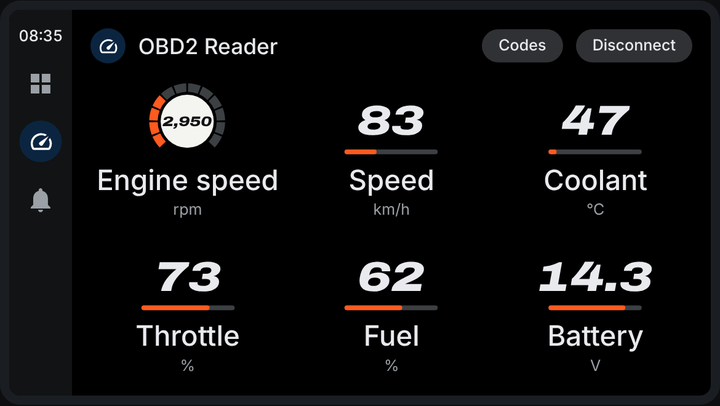
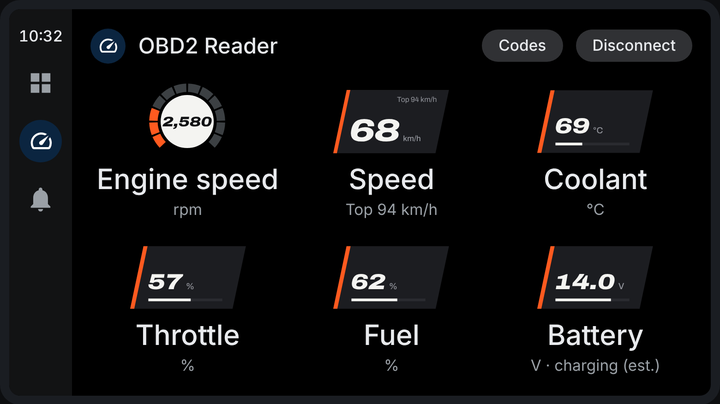
1.24.0: changelog, README, preview
Claude-Session: https://claude.ai/code/session_01McjzTqeoTY42GN73YPdA2H

diff --git a/preview/index.html b/preview/index.html
@@ -704,6 +704,16 @@ h1 { font-size: 30px; margin: 0; letter-spacing: -.01em; }
 .pipw .pip-x { position: absolute; inset: 0; border-radius: 14px; background: rgba(0,0,0,.55); display: flex; align-items: center; justify-content: center; gap: 10px; }
 .pipw .pip-x button { border: 0; border-radius: 999px; padding: 6px 12px; font: inherit; font-size: 12px; background: #F2F4F8; color: #111214; cursor: pointer; }
 .pipw[hidden] { display: none; }
+
+/* Same route as last time (trip summary) */
+.same-route { background: var(--panel-2); border-radius: var(--r); padding: 4px 14px; margin-bottom: 4px; }
+.same-route div { display: flex; align-items: center; gap: 10px; padding: 7px 0; font-size: 13px; }
+.same-route div + div { border-top: 1px solid var(--line); }
+.same-route span { flex: 1; color: var(--fg-2); }
+.same-route b { font-size: 15px; font-weight: 600; font-variant-numeric: tabular-nums; }
+.same-route em { width: 118px; text-align: right; font-style: normal; color: var(--fg-2); font-variant-numeric: tabular-nums; }
+.same-route em.up { color: var(--green); } .same-route em.down { color: var(--red); }
+.car-item svg.tile { overflow: visible; }
 </style>
 
 <p class="note"><b>Live preview of the Android app, its Android Auto screen, its home-screen widget and its picture-in-picture window.</b> Every button works. Connections run against the same simulated car as the app's demo mode, because a browser can't reach a real adapter.</p>
@@ -1913,7 +1923,7 @@ function renderRec() {
   const s = Math.floor((Date.now() - rec.started) / 1000);
   $("recordStatus").textContent = `Recording ${Math.floor(s / 60)}:${String(s % 60).padStart(2, "0")}, ${rec.rows.toLocaleString("en-AU")} rows. Saved as ${rec.name}`;
 }
-function stopRec() { if (!rec) return; if (rec.rows) savedDrives.unshift({ name: rec.name, rows: rec.rows, secs: Math.round((Date.now() - rec.started) / 1000), samples: rec.samples }); rec = null; renderRec(); }
+function stopRec() { if (!rec) return; if (rec.rows) savedDrives.unshift({ name: rec.name, rows: rec.rows, secs: Math.round((Date.now() - rec.started) / 1000), samples: rec.samples, start: rec.started }); rec = null; renderRec(); }
 $("recordBtn").onclick = () => {
   if (rec) { stopRec(); return toast("Drive saved. Open Saved drives to share it."); }
   rec = { name: `OBD2Reader_${stamp()}.csv`, started: Date.now(), rows: 0, samples: [] }; renderRec();
@@ -2452,6 +2462,7 @@ function showTripSummary(t, justEnded) {
     <div class="trip-tiles">${tiles.map(([l, v]) => `<div><span>${l}</span><b class="xb">${v}</b></div>`).join("")}</div>
     <div class="trip-h">Driving score</div><div class="trip-scores">${sc3}</div>
     ${Object.values(t.scores).every(v => v == null) ? `<p class="trip-note">Drive for at least half a minute to get a score.</p>` : ""}
+    ${sameRouteHtml(t)}
     <button class="primary trip-done" id="tripDone">Done</button><button class="trip-share" id="tripShare">Share as a picture</button>`, { sheet: true });
   $("tripDone").onclick = closeOverlay;
   $("tripShare").onclick = () => showDriveCard(t);
@@ -3065,7 +3076,7 @@ setInterval(() => { $("noChargeBtn").hidden = $("ignBtn").hidden; if ($("ignBtn"
 
 /* ===== App updates (mirrors MainActivity.checkForUpdate and showChangesSince). The browser preview
    can't install an APK, so it is always on the latest release. ===== */
-const CHANGES = {"version": "1.23.0", "date": "1 November 2026", "text": "• Picture-in-picture. While you're connected (to your car or the demo), leaving the app now keeps your readings in a small floating window over your other apps, like a video: your widget readings, the first one big, in your style's colours, lighting up near your redline or top speed just like the widget. Drag it anywhere, pinch to resize it, tap it for a Disconnect button or to go back to the full app. Putting the window away keeps you connected (the notification still has Disconnect). Turn it off with the Picture-in-picture switch under Reconnect automatically."};
+const CHANGES = {"version": "1.24.0", "date": "2 November 2026", "text": "• Same route as last time. When you record a drive with its route and you've recorded the same journey before (same start, same finish, same roads, the same way round), the drive's summary compares the two: time, average speed, idling and top speed, each marked better or worse, plus your drive score when both recordings covered the whole drive. The two routes are read from their own recordings, the only place your location is ever kept, and nothing new is saved.\n• Android Auto in your style's layout. The car screen's tiles are now drawn with the phone's own dashboard pieces in the style you've chosen: the race-number roundel and angled decals on the liveries, shift lights and data-logger rows with live traces on Race telemetry, the glowing speed ring and glass rows on Digital cockpit, and the neon heads-up display and chips on Cyberpunk. Trouble codes show on your style's plates too. Android Auto still sets the background, the grid and the names under each tile. Pit lane is drawn in darker colours while the car's screen is in night mode."};
 (() => { const row = document.getElementById("updatesRow"), btn = document.getElementById("updatesCheck"); if (!row) return;
   btn.onclick = e => { e.stopPropagation(); toast("Checking for updates…"); setTimeout(() => toast(`You're on the latest version (${CHANGES.version}).`), 1200); };
   row.onclick = () => {
@@ -3367,6 +3378,149 @@ $("batteryWatch").onchange = e => { $("batteryNight").hidden = !e.target.checked
     draw();
   }, 400);
 })();
+
+/* ===== 1.24.0: Android Auto tiles in the style's own layout (mirrors car/CarTiles.kt) =====
+   Each tile is a picture of the phone's dashboard piece: roundel and angled decals on the liveries,
+   shift lights and data-logger rows with traces on Race telemetry, the speed ring and glass rows on
+   Digital cockpit, the heads-up display and chips on Cyberpunk. Pit lane goes dark (Kerb's colours) in the car. */
+(function () {
+  const probes = {};
+  function vars(id) {
+    if (!probes[id]) { const d = document.createElement("div"); d.dataset.theme = id; d.hidden = true; document.body.appendChild(d); probes[id] = d; }
+    const cs = getComputedStyle(probes[id]), g = n => cs.getPropertyValue(n).trim();
+    return { base: g("--base"), panel: g("--panel"), line: g("--line"), fg: g("--fg"), fg2: g("--fg-2"), s1: g("--s1"), s2: g("--s2"), track: g("--track") || "#2A2B30", red: g("--red") || "#FF3B2F", roundel: g("--roundel"), ink: g("--roundel-ink") };
+  }
+  const hist = {}; let histAt = 0;
+  const DISPLAY = "font-family:Archivo;font-stretch:125%;font-weight:850;font-style:italic;font-variant-numeric:tabular-nums";
+  const esc = s => String(s).replace(/&/g, "&amp;").replace(/</g, "&lt;");
+  function decal(c, value, unit, frac, hot, wide, top) {
+    const W = wide ? 380 : 340, H = wide ? 208 : 184, o = Math.tan(12 * Math.PI / 180) * H;
+    const fill = hot ? c.red : c.fg;
+    return `<svg class="tile" viewBox="0 0 ${W} ${H}" aria-hidden="true"><polygon points="${o},0 ${W},0 ${W - o},${H} 0,${H}" fill="${c.panel}"/>
+      <polygon points="${o},0 ${o + 12},0 12,${H} 0,${H}" fill="${hot ? c.red : c.s1}"/>
+      ${top != null ? `<text x="${W - 40}" y="40" text-anchor="end" font-size="24" fill="${c.fg2}" font-family="Archivo">Top ${top} ${esc(unit)}</text>` : ""}
+      <text x="${o * 0.3 + 40}" y="${wide ? H - 40 : 126}" font-size="${wide ? 104 : 64}" fill="${fill}" style="${DISPLAY}">${esc(value)}<tspan font-size="26" fill="${c.fg2}" style="font-style:normal;font-stretch:100%;font-weight:500" dx="10">${value === "N/A" ? "" : esc(unit)}</tspan></text>
+      ${wide ? "" : `<rect x="${o * 0.6 + 30}" y="${H - 30}" width="${W - o - 60 - o * 0.6}" height="8" fill="${c.track}"/><rect x="${o * 0.6 + 30}" y="${H - 30}" width="${Math.max(0, (W - o - 60 - o * 0.6) * (frac || 0))}" height="8" fill="${fill}"/>`}</svg>`;
+  }
+  function trace(pts, x, y, w, h, min, max, col) {
+    if (!pts || pts.length < 2) return "";
+    const d = pts.map((v, i) => `${(x + w * i / 93).toFixed(1)},${(y + h - h * Math.max(0, Math.min(1, (v - min) / (max - min || 1)))).toFixed(1)}`).join(" ");
+    return `<polyline points="${d}" fill="none" stroke="${col}" stroke-width="3" stroke-linejoin="round"/>`;
+  }
+  const CH = { "0C": "#FF3B30", "0D": "#2FD573", "05": "#FFB000", "11": "#5AC8FA", "2F": "#BF5AF2", VOLT: "#E9EBEE" };
+  function row(c, kind, key, value, unit, min, max, hot) {
+    const W = 380, H = kind === "glass" ? 120 : 150;
+    const bg = kind === "glass" ? `<rect x="1" y="1" width="${W - 2}" height="${H - 2}" rx="30" fill="rgba(255,255,255,.08)" stroke="rgba(255,255,255,.14)"/>`
+      : `<rect width="${W}" height="${H}" rx="4" fill="${c.panel}"/><rect width="6" height="${H}" fill="${CH[key] || c.s1}"/>`;
+    const col = hot ? c.red : c.fg;
+    const font = kind === "glass" ? "font-family:Archivo;font-weight:300;font-variant-numeric:tabular-nums" : "font-family:Archivo;font-stretch:75%;font-weight:700;font-variant-numeric:tabular-nums";
+    return `<svg class="tile" viewBox="0 0 ${W} ${H}" aria-hidden="true">${bg}
+      ${kind === "glass" ? `<rect x="36" y="${H - 34}" width="${W - 72}" height="6" rx="3" fill="rgba(255,255,255,.12)"/><rect x="36" y="${H - 34}" width="${Math.max(0, (W - 72) * Math.max(0, Math.min(1, ((hist[key] || []).slice(-1)[0] - min) / (max - min || 1))) || 0)}" height="6" rx="3" fill="${c.s1}"/>`
+        : trace(hist[key], 24, 30, 200, 90, min, max, CH[key] || c.s1)}
+      <text x="${W - 30}" y="${kind === "glass" ? 72 : 100}" text-anchor="end" font-size="${kind === "glass" ? 58 : 66}" fill="${col}" style="${font}">${esc(value)}</text>
+      <text x="${W - 30}" y="${kind === "glass" ? 100 : 132}" text-anchor="end" font-size="22" fill="${c.fg2}" font-family="Archivo">${value === "N/A" ? "" : esc(unit)}</text></svg>`;
+  }
+  function lights(rpm, redline) {
+    const lit = rpm == null ? 0 : Math.max(0, Math.min(15, Math.ceil(15 * rpm / (redline * 0.97)))), flash = rpm != null && rpm >= redline;
+    let s = ""; for (let i = 0; i < 15; i++) { const on = flash || i < lit, col = flash ? "#3A8BFF" : ["#2FD573", "#FFB000", "#FF3B30"][Math.floor(i / 5)]; s += `<rect x="${6 + i * 25}" y="6" width="20" height="20" rx="3" fill="${on ? col : "#24262B"}"/>`; }
+    return s;
+  }
+  function telemetryRpm(c, value, rpm, redline, min, max, hot) {
+    return row(c, "tower", "0C", value, "rpm", min, max, hot).replace('viewBox="0 0 380 150"', 'viewBox="0 0 380 190"').replace(/<rect width="380"/, `<g>${lights(rpm, redline)}</g><g transform="translate(0,40)"><rect width="380"`).replace("</svg>", "</g></svg>");
+  }
+  function ring(c, speed, rpm, rpmMax, redline, unit, top) {
+    const a = (f, r) => arcPath(130, 120, r, 140, 140 + 260 * Math.max(0.001, Math.min(1, f)));
+    const sf = speed == null ? 0 : speed / (unit === "mph" ? 150 : 240), rf = rpm == null ? 0 : rpm / rpmMax;
+    return `<svg class="tile" viewBox="0 0 260 230" aria-hidden="true"><defs><linearGradient id="ckg" x1="0" x2="1"><stop offset="0" stop-color="${c.s1}"/><stop offset="1" stop-color="${c.s2}"/></linearGradient></defs>
+      <path d="${a(1, 104)}" stroke="rgba(255,255,255,.08)" stroke-width="4" fill="none" stroke-linecap="round"/><path d="${a(rf, 104)}" stroke="${rpm != null && rpm >= redline ? c.red : c.fg}" stroke-width="4" fill="none" stroke-linecap="round" opacity=".85"/>
+      <path d="${a(1, 88)}" stroke="rgba(255,255,255,.1)" stroke-width="12" fill="none" stroke-linecap="round"/><path d="${a(sf, 88)}" stroke="url(#ckg)" stroke-width="12" fill="none" stroke-linecap="round" style="filter:drop-shadow(0 0 6px ${c.s1})"/>
+      <text x="130" y="128" text-anchor="middle" font-size="78" fill="${c.fg}" style="font-family:Archivo;font-weight:300;font-variant-numeric:tabular-nums">${speed == null ? "—" : Math.round(speed)}</text>
+      <text x="130" y="158" text-anchor="middle" font-size="15" fill="${c.fg2}" font-family="Archivo">${esc(unit)}${top != null ? ` · top ${top}` : ""}</text>
+      <text x="130" y="205" text-anchor="middle" font-size="15" fill="${c.fg}" font-family="Archivo">${rpm == null ? "— rpm" : Math.round(rpm).toLocaleString("en-US") + " rpm"}</text></svg>`;
+  }
+  const cut = (W, H, k) => `${k},0 ${W},0 ${W},${H - k} ${W - k},${H} 0,${H} 0,${k}`;
+  function hud(c, speed, rpm, rpmMax, redline, unit, top) {
+    const W = 420, H = 240, n = 24, lit = rpm == null ? 0 : Math.round(n * Math.min(1, rpm / rpmMax));
+    let bars = ""; for (let i = 0; i < n; i++) { const f = i / (n - 1), col = rpm != null && (i + 1) / n * rpmMax >= redline ? c.red : `color-mix(in srgb, ${c.s2} ${Math.round((1 - f) * 100)}%, ${c.s1})`; bars += `<polygon points="${24 + i * 15 + 6},30 ${24 + i * 15 + 18},30 ${24 + i * 15 + 12},56 ${24 + i * 15},56" fill="${i < lit ? col : "#1E1A30"}"/>`; }
+    const v = speed == null ? "—" : String(Math.round(speed)), st = "font-family:Archivo;font-stretch:125%;font-weight:700;font-variant-numeric:tabular-nums";
+    return `<svg class="tile" viewBox="0 0 ${W} ${H}" aria-hidden="true"><polygon points="${cut(W, H, 22)}" fill="${c.panel}" stroke="${c.s1}" stroke-width="2.5" style="filter:drop-shadow(0 0 6px ${c.s1})"/>${bars}
+      <text x="214" y="168" text-anchor="middle" font-size="104" fill="${c.s2}" opacity=".85" style="${st}">${v}</text><text x="206" y="164" text-anchor="middle" font-size="104" fill="${c.s1}" opacity=".85" style="${st}">${v}</text><text x="210" y="166" text-anchor="middle" font-size="104" fill="${c.fg}" style="${st}">${v}</text>
+      <text x="210" y="210" text-anchor="middle" font-size="18" fill="${c.fg2}" letter-spacing="4" font-family="Archivo" font-weight="600">${esc(unit.toUpperCase())}${top != null ? ` · TOP ${top}` : ""}</text></svg>`;
+  }
+  function chip(c, value, unit, frac, hot) {
+    const W = 340, H = 150, n = 12; let seg = "";
+    for (let i = 0; i < n; i++) seg += `<rect x="${28 + i * 24}" y="${H - 34}" width="18" height="10" fill="${i < Math.round(n * (frac || 0)) ? (hot ? c.red : c.s2) : "#1E1A30"}"/>`;
+    return `<svg class="tile" viewBox="0 0 ${W} ${H}" aria-hidden="true"><polygon points="${cut(W, H, 16)}" fill="${c.panel}" stroke="${c.s2}" stroke-width="2" style="filter:drop-shadow(0 0 5px ${c.s2})"/>
+      <text x="28" y="88" font-size="58" fill="${hot ? c.red : c.fg}" style="font-family:Archivo;font-stretch:125%;font-weight:700;font-variant-numeric:tabular-nums">${esc(value)}<tspan font-size="22" fill="${c.fg2}" dx="8" style="font-stretch:100%;font-weight:500">${value === "N/A" ? "" : esc(unit)}</tspan></text>${seg}</svg>`;
+  }
+  const prev = renderCar;
+  renderCar = function () {
+    const main = $("carMain"); if (!main || $("car").hidden) return;
+    if (carScreen === "codes" && state === "connected") return prev();
+    carScreen = "dash";
+    const lay = LAYOUT[themeId] || "livery", c = vars(themeId === "pitlane" ? "kerb" : themeId);
+    const [acc, onAcc] = CAR_ACCENT[themeId] || CAR_ACCENT.asphalt;
+    $("car").style.setProperty("--car-accent", acc); $("car").style.setProperty("--car-on-accent", onAcc);
+    const connected = state === "connected" && !ignOff, now = performance.now();
+    const status = state === "connecting" ? "Connecting…" : state === "waiting" ? statusNow.title : statusNow.kind === "error" ? statusNow.title : lastUsed ? "Not connected" : "Pair on phone";
+    const redline = rpmGauge.warnAt || 6500, rpmMax = rpmGauge.max || 8000;
+    const vals = CAR_TILES.map(t => { const raw = connected ? uVal(t.key, live[t.key]) : null; return [raw, carGlide(t.key, raw, now)]; });
+    if (now - histAt > 320) { histAt = now; CAR_TILES.forEach((t, i) => { const v = vals[i][1]; if (v == null) delete hist[t.key]; else (hist[t.key] = hist[t.key] || []).push(v), hist[t.key].length > 94 && hist[t.key].shift(); }); }
+    const rpm = vals[0][1], speed = vals[1][1];
+    const top = sc.top != null ? Math.round(uVal("0D", sc.top)) : null;
+    const items = CAR_TILES.map((t, i) => {
+      const [raw, shown] = vals[i]; const unit = uUnit(t.key, t.unit);
+      const max = t.key === "0C" ? rpmMax : t.max, warn = t.key === "0C" ? redline : t.warn;
+      const high = raw != null && warn != null && raw >= warn;
+      const text = i === 0 && !connected ? status : high ? "High" : t.key === "0D" && top != null ? `Top ${top} ${unit}` : t.key === "VOLT" && connected && chgShown ? `${unit} · ${CHG[chgShown]} (est.)` : unit;
+      const value = shown == null ? (connected ? "—" : naText()) : t.key === "0C" ? (Math.floor(shown / 10) * 10).toLocaleString("en-US") : shown.toFixed(t.dec);
+      const frac = shown == null ? 0 : Math.max(0, Math.min(1, (shown - t.min) / (max - t.min)));
+      let img;
+      if (lay === "livery") img = t.key === "0C" ? carRoundelNum(Math.min(1, (shown || 0) / max), shown == null ? "—" : value) : decal(c, value, unit, frac, high, t.key === "0D", t.key === "0D" ? top : null);
+      else if (lay === "telemetry") img = t.key === "0C" ? telemetryRpm(c, value, rpm, redline, t.min, max, high) : row(c, "tower", t.key, value, unit, t.min, max, high);
+      else if (lay === "cockpit") img = t.key === "0D" ? ring(c, speed, rpm, rpmMax, redline, unit, top) : row(c, "glass", t.key, value, unit, t.min, max, high);
+      else img = t.key === "0D" ? hud(c, speed, rpm, rpmMax, redline, unit, top) : chip(c, value, unit, frac, high);
+      return `<div class="car-item car-${lay}${high ? " hot" : ""}">${img}<div class="t">${t.title}</div><div class="x${high ? " hot" : ""}">${text}</div></div>`;
+    }).join("");
+    const codesLabel = sharedCodes == null ? "Codes" : sharedCodes.length ? `Codes (${sharedCodes.length})` : "No codes";
+    const actions = connected ? [["codes", codesLabel], ["disconnect", "Disconnect"]]
+      : state === "connecting" || state === "waiting" ? [["disconnect", "Stop"]]
+      : (lastUsed ? [["connect", "Connect"]] : []).concat([["demo", "Demo"]]);
+    main.innerHTML = carHead("OBD2 Reader", { actions }) + `<div class="car-grid">${items}</div>`;
+  };
+})();
+
+
+/* ===== 1.24.0: Same route as last time (mirrors obd/RouteCompare.kt and MainActivity.addRouteComparison) =====
+   The demo car always drives the same loop, so a drive recorded in the preview matches the last recorded one. */
+function recStats(samples) {
+  if (!samples || samples.length < 3) return null;
+  let last = null, driving = 0, idle = 0, km = 0, top = null;
+  for (const [t, rpm, v] of samples) {
+    const dt = last == null ? 0 : Math.max(0, Math.min(5, t - last)); last = t;
+    if (v == null) continue;
+    if (v > 2) { driving += dt; km += v * dt / 3600; } else if ((rpm || 0) > 300) idle += dt;
+    if (top == null || v > top) top = v;
+  }
+  return { secs: Math.round(last - samples[0][0]), driving, idle: Math.round(idle), avg: driving >= 1 ? km / (driving / 3600) : null, top };
+}
+function sameRouteHtml(t) {
+  const mine = savedDrives.filter(d => d.start >= t.start - 1000 && d.start <= t.end), before = savedDrives.find(d => d.start < t.start - 1000);
+  if (!mine.length || !before) return "";
+  const a = recStats(mine.flatMap(d => d.samples)), b = recStats(before.samples);
+  if (!a || !b) return "";
+  const timeCh = (d, less, more) => Math.abs(d) < 30 ? "About the same" : d < 0 ? `${tripDur(-d)} ${less}` : `${tripDur(d)} ${more}`;
+  const signed = (d, u) => { const r = Math.round(d); return r === 0 ? "About the same" : r > 0 ? `+${r} ${u}` : `\u2212${-r} ${u}`; };
+  const better = (d, band) => Math.abs(d) < band ? null : d > 0;
+  const sp = v => unitsMph ? v * 0.621371 : v, su = unitsMph ? "mph" : "km/h";
+  const lines = [["Time", tripDur(a.secs), timeCh(a.secs - b.secs, "quicker", "slower"), better(b.secs - a.secs, 30)]];
+  if (a.avg != null && b.avg != null) lines.push(["Average speed", uSpeedText(a.avg), signed(sp(a.avg) - sp(b.avg), su), better(sp(a.avg) - sp(b.avg), 1)]);
+  lines.push(["Idling", tripDur(a.idle), timeCh(a.idle - b.idle, "less", "more"), better(b.idle - a.idle, 30)]);
+  if (a.top != null && b.top != null) lines.push(["Top speed", uSpeedText(a.top), signed(sp(a.top) - sp(b.top), su), null]);
+  const when = new Date(before.start), day = when.toLocaleDateString([], { weekday: "short", day: "numeric", month: "short" }), tm = when.toLocaleTimeString([], { hour: "numeric", minute: "2-digit" });
+  return `<div class="trip-h">Same route as last time</div><p class="trip-note" style="margin-top:0">Compared with your drive on ${day}, ${tm}</p>
+    <div class="same-route">${lines.map(([l, v, ch, g]) => `<div><span>${l}</span><b>${v}</b><em class="${g === true ? "up" : g === false ? "down" : ""}">${ch}</em></div>`).join("")}</div>`;
+}
 
 window.carReady = true;
 if (location.hash === "#car") showView(true);

diff --git a/CHANGELOG.md b/CHANGELOG.md
@@ -2,6 +2,10 @@
 
 Every change to OBD2 Reader, newest first. Each GitHub release shows the entry for its version.
 
+## 1.24.0 (2 November 2026)
+- **Same route as last time.** When you record a drive with its route and you've recorded the same journey before (same start, same finish, same roads, the same way round), the drive's summary compares the two: time, average speed, idling and top speed, each marked better or worse, plus your drive score when both recordings covered the whole drive. The two routes are read from their own recordings, the only place your location is ever kept, and nothing new is saved.
+- **Android Auto in your style's layout.** The car screen's tiles are now drawn with the phone's own dashboard pieces in the style you've chosen: the race-number roundel and angled decals on the liveries, shift lights and data-logger rows with live traces on Race telemetry, the glowing speed ring and glass rows on Digital cockpit, and the neon heads-up display and chips on Cyberpunk. Trouble codes show on your style's plates too. Android Auto still sets the background, the grid and the names under each tile. Pit lane is drawn in darker colours while the car's screen is in night mode.
+
 ## 1.23.0 (1 November 2026)
 - **Picture-in-picture, if you want it.** Once switched on, while you're connected (to your car or the demo), leaving the app keeps your readings in a small floating window over your other apps, like a video: your widget readings, the first one big, in your style's colours, lighting up near your redline or top speed just like the widget. Drag it anywhere, pinch to resize it, tap it for a Disconnect button or to go back to the full app. It's off to start with: turn it on with the **Picture-in-picture** switch under Reconnect automatically. Putting the window away keeps you connected (the notification still has Disconnect).
 
